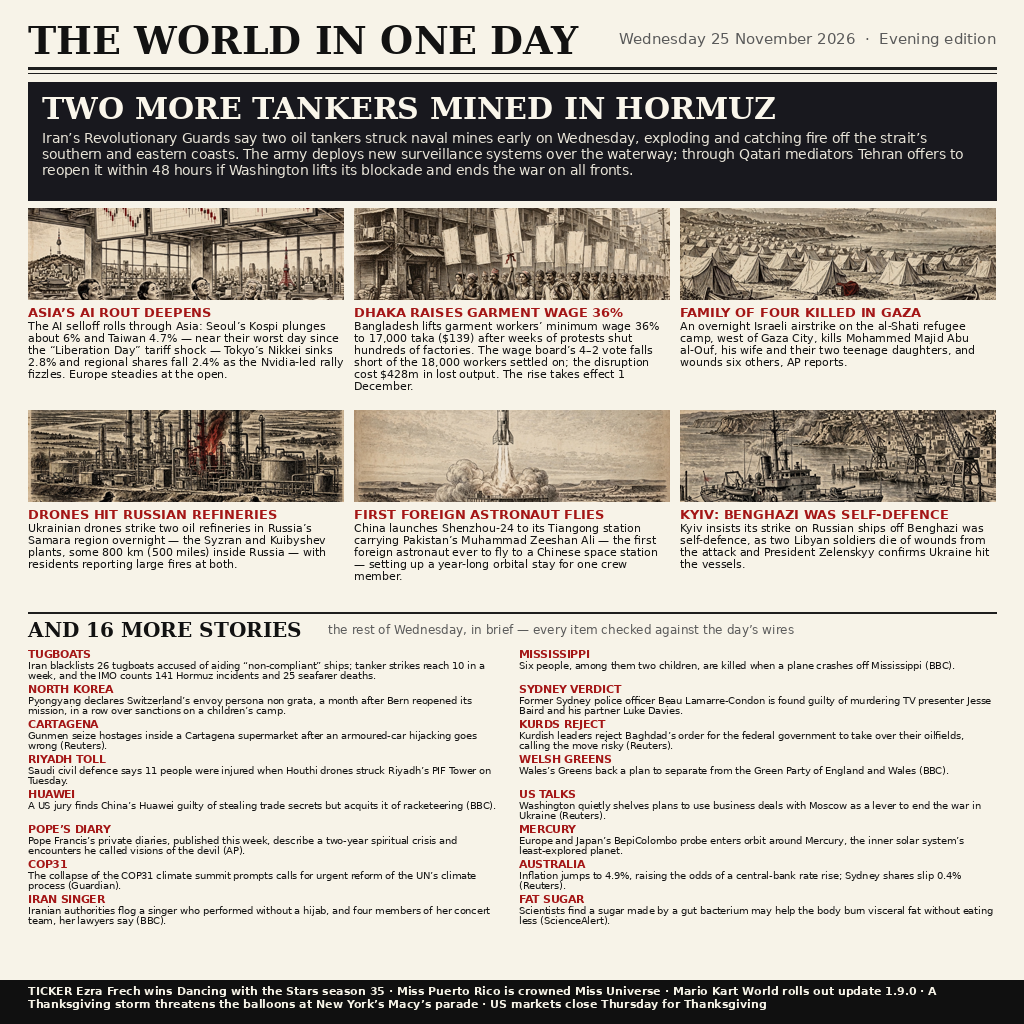
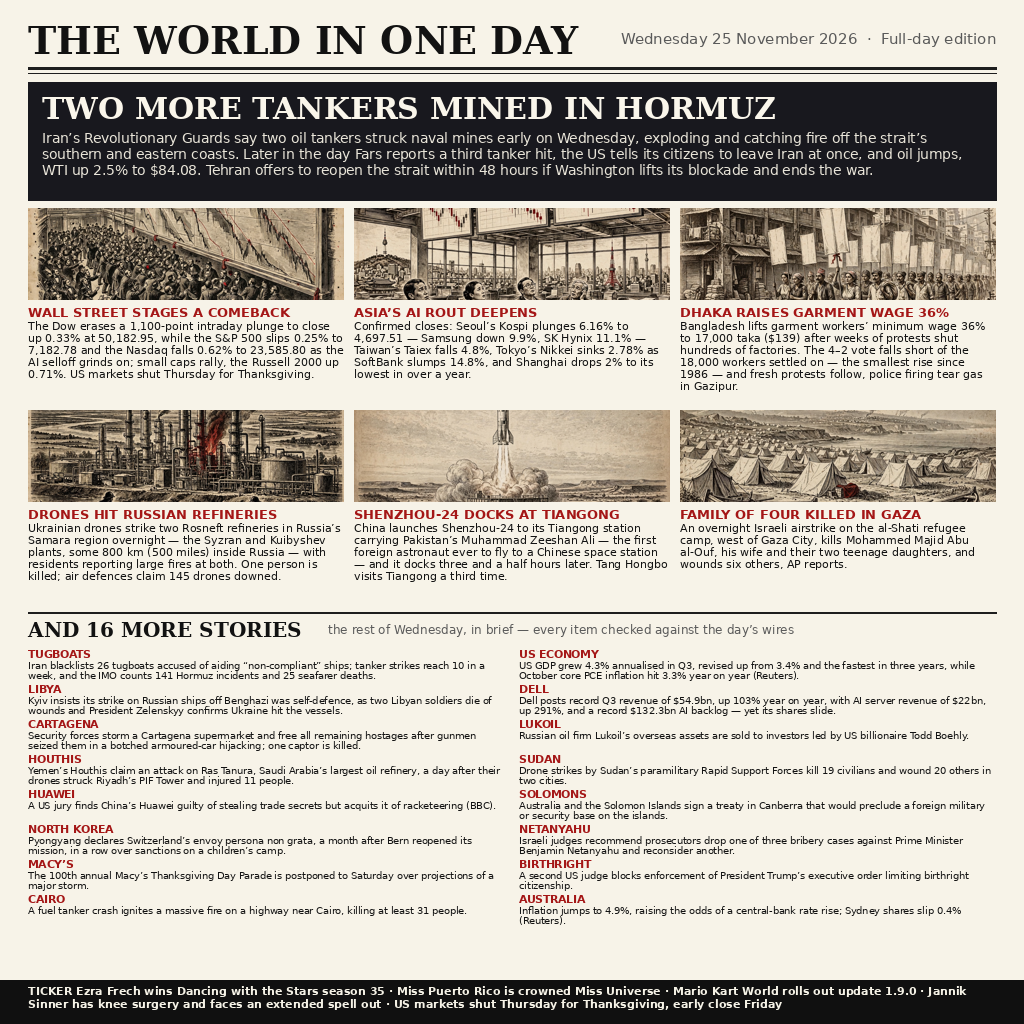
v2 full-day edition: Wall Street comeback, confirmed Asia closes, Dhaka protests, third Hormuz claim

diff --git a/main.ts b/main.ts
@@ -1,26 +1,31 @@
 // "The World in One Day" — my entry for make.fun's news-image-20261125
 // bounty, "Sum up 25 November's world news in one image". This commit is
-// the evening edition (v1); a full-day edition may supersede it before
-// entries close on Friday.
+// the full-day edition (v2), superseding the evening edition (v1) with
+// Wednesday's closes and later developments: the Dow erasing a 1,100-point
+// plunge, confirmed Asian closes, fresh protests after Dhaka's wage rise,
+// and a third tanker claim in Hormuz. Entries close Friday.
 //
 // The poster shipped next to this file (entry.png — PNG bytes, 1024x1024)
 // compresses Wednesday 25 November 2026 into one 1024x1024 front page of
 // 28 stories: a lead on two more tankers hitting mines in the Strait of
 // Hormuz early on Wednesday, as Iran deploys new surveillance systems
 // over the waterway and, through Qatari mediators, offers to reopen it
-// within 48 hours if Washington lifts its blockade and ends the war;
-// six illustrated cards (the AI selloff rolling through Asia, with
-// Seoul's Kospi down about 6% and Tokyo's Nikkei off 2.8%; Bangladesh
-// raising garment workers' minimum wage 36% to 17,000 taka after weeks
-// of protests; an overnight Israeli strike on Gaza's al-Shati camp that
-// killed a family of four; Ukrainian drones hitting two oil refineries
-// 800 km inside Russia's Samara region; China launching Shenzhou-24
-// with Pakistan's first astronaut aboard; and Kyiv insisting its
-// Benghazi strike on Russian ships was self-defence as two Libyan
-// soldiers die of their wounds), sixteen one-line briefs and a
-// five-item ticker. This is the evening edition (v1): every Wednesday
-// item checked against the day's wires, with Tuesday's stories (the
-// Hamas security chief's killing, the leaked Russian death toll, the
+// within 48 hours if Washington lifts its blockade and ends the war — with
+// a third tanker claimed later in the day, the US telling its citizens to
+// leave Iran at once, and oil jumping;
+// six illustrated cards (Wall Street staging a comeback as the Dow erases
+// a 1,100-point plunge to close up 0.33% at 50,182.95; the AI selloff
+// rolling through Asia with confirmed closes — Seoul's Kospi down 6.16%
+// and Tokyo's Nikkei off 2.78%; Bangladesh raising garment workers'
+// minimum wage 36% to 17,000 taka, then fresh protests as police fire
+// tear gas; Ukrainian drones hitting two oil refineries 800 km inside
+// Russia's Samara region, one person killed and 145 drones claimed downed;
+// China launching Shenzhou-24 with Pakistan's first astronaut aboard and
+// docking three and a half hours later; and an overnight Israeli strike on
+// Gaza's al-Shati camp that killed a family of four), sixteen one-line
+// briefs and a five-item ticker. This is the full-day edition (v2): every
+// Wednesday item checked against the day's wires, with Tuesday's stories
+// (the Hamas security chief's killing, the leaked Russian death toll, the
 // Dow's first close above 50,000, the Polish airspace incursion) and
 // older ones deliberately left out except where a fresh Wednesday
 // angle exists. The count follows the series' verified sweet spot: in

diff --git a/README.md b/README.md
@@ -4,11 +4,11 @@
 [![rank](https://make.fun/badge/news-image-20261125/lkapi0819-cli/news-image-20261125/rank.svg)](https://make.fun/bounty/news-image-20261125/leaderboard?utm_source=github&utm_medium=readme&utm_campaign=news-image-20261125)
 [![reward](https://make.fun/badge/news-image-20261125/lkapi0819-cli/news-image-20261125/reward.svg)](https://make.fun/bounty/news-image-20261125?utm_source=github&utm_medium=readme&utm_campaign=news-image-20261125)
 
-"The World in One Day" — a high-density front-page poster summing up Wednesday 25 November 2026 in one 1024×1024 image with 28 stories: Iran's Revolutionary Guards Navy saying two more oil tankers struck naval mines in the Strait of Hormuz early on Wednesday, exploding and catching fire off the strait's southern and eastern coasts, the army deploying new surveillance systems over the waterway, and Tehran — through Qatari mediators — offering to reopen the strait within 48 hours if Washington lifts its naval blockade and ends the war on all fronts; the AI selloff rolling through Asia, with Seoul's Kospi plunging about 6%, Taiwan down 4.7% and Tokyo's Nikkei 225 sinking 2.8% as the Nvidia-led rally fizzled; Bangladesh raising garment workers' minimum wage 36% to 17,000 taka ($139) after weeks of protests that shut hundreds of factories, in a 4–2 wage-board vote that fell short of what workers had settled on; an overnight Israeli airstrike on Gaza's al-Shati refugee camp killing a father, his wife and their two teenage daughters; Ukrainian drones striking two oil refineries in Russia's Samara region, some 800 km inside Russia; China launching Shenzhou-24 to its Tiangong station with Pakistan's Muhammad Zeeshan Ali, the first foreign astronaut to fly to a Chinese station; and Kyiv insisting its strike on Russian ships off Benghazi was self-defence as two Libyan soldiers died of their wounds — plus 16 more briefs (Iran blacklisting 26 tugboats as tanker strikes reach 10 in a week, North Korea expelling Switzerland's envoy, hostages seized in a Cartagena supermarket, the Riyadh tower attack's toll of 11 injured, Huawei's US trade-secrets conviction, Pope Francis's published diaries, calls to reform the UN climate process after COP31's collapse, an Iranian singer flogged for performing without a hijab, a Mississippi plane crash killing six, a Sydney murder verdict, Kurdish leaders rejecting Baghdad's oilfield order, the Welsh Greens' split plan, Washington shelving business-deal diplomacy with Moscow, BepiColombo entering orbit around Mercury, Australia's inflation jump to 4.9%, and a gut bacterium's fat-burning sugar) and a five-item ticker led by Ezra Frech's Dancing with the Stars win. This is the evening edition (v1): every item checked against Wednesday's wires, with Tuesday's stories deliberately excluded. The poster was composed from six AI-illustrated panels with a Python/Pillow layout script; `main.ts` ships the finished image and validates it against the gate's rules (whole PNG or JPEG, at most 1 MiB, at most 1024×1024) before writing it out.
+"The World in One Day" — a high-density front-page poster summing up Wednesday 25 November 2026 in one 1024×1024 image with 28 stories: Iran's Revolutionary Guards Navy saying two more oil tankers struck naval mines in the Strait of Hormuz early on Wednesday, exploding and catching fire off the strait's southern and eastern coasts, the army deploying new surveillance systems over the waterway, and Tehran — through Qatari mediators — offering to reopen the strait within 48 hours if Washington lifts its naval blockade and ends the war on all fronts, with a third tanker claimed later in the day, the US telling its citizens to leave Iran at once, and oil jumping; Wall Street staging a comeback as the Dow erases a 1,100-point plunge to close up 0.33% at 50,182.95 while the S&P 500 slips 0.25% and the Nasdaq falls 0.62%; the AI selloff rolling through Asia with confirmed closes, Seoul's Kospi plunging 6.16%, Taiwan down 4.8% and Tokyo's Nikkei 225 sinking 2.78% as the Nvidia-led rally fizzled; Bangladesh raising garment workers' minimum wage 36% to 17,000 taka ($139) after weeks of protests that shut hundreds of factories, in a 4–2 wage-board vote that fell short of what workers had settled on, then fresh protests as police fire tear gas in Gazipur; an overnight Israeli airstrike on Gaza's al-Shati refugee camp killing a father, his wife and their two teenage daughters; Ukrainian drones striking two oil refineries in Russia's Samara region, some 800 km inside Russia, one person killed and 145 drones claimed downed; China launching Shenzhou-24 to its Tiangong station with Pakistan's Muhammad Zeeshan Ali, the first foreign astronaut to fly to a Chinese station, and docking three and a half hours later — plus 16 more briefs (Iran blacklisting 26 tugboats as tanker strikes reach 10 in a week, Kyiv's Benghazi self-defence claim, hostages freed in Cartagena, the Houthis claiming a Ras Tanura refinery attack, Huawei's US trade-secrets conviction, North Korea expelling Switzerland's envoy, the Macy's parade postponed to Saturday, a Cairo tanker fire killing at least 31, US Q3 GDP revised up to 4.3% with core PCE at 3.3%, Dell's record quarter, Lukoil's overseas sale, RSF strikes killing 19 in Sudan, the Australia–Solomons treaty, a court boost for Netanyahu, a second block on the birthright order, and Australia's inflation jump to 4.9%) and a five-item ticker led by Ezra Frech's Dancing with the Stars win. This is the full-day edition (v2): every item checked against Wednesday's wires, with Tuesday's stories deliberately excluded. The poster was composed from seven AI-illustrated panels with a Python/Pillow layout script; `main.ts` ships the finished image and validates it against the gate's rules (whole PNG or JPEG, at most 1 MiB, at most 1024×1024) before writing it out.
 
 ## Editions
 
-This commit is the evening edition (v1), published on Wednesday evening with the day's reporting through the Asian close and Europe's open. A full-day edition (v2) may supersede it before entries close on Friday 27 November 08:00 CST if Thursday's round placement and the day's later developments justify one; otherwise this edition stands as the final entry.
+This commit is the full-day edition (v2), published on Thursday morning with Wednesday's closes and later developments — the US market close, the third Hormuz tanker claim, the Dhaka protests that followed the wage decision, and the Shenzhou-24 docking. It supersedes the evening edition (v1), which was published on Wednesday evening with the day's reporting through the Asian close and Europe's open. v1's dev-phase judge rate was 0.961 (8W/3D/1L of 12); v2 is the final entry unless a later check shows otherwise.
 
 ## Run it
 
